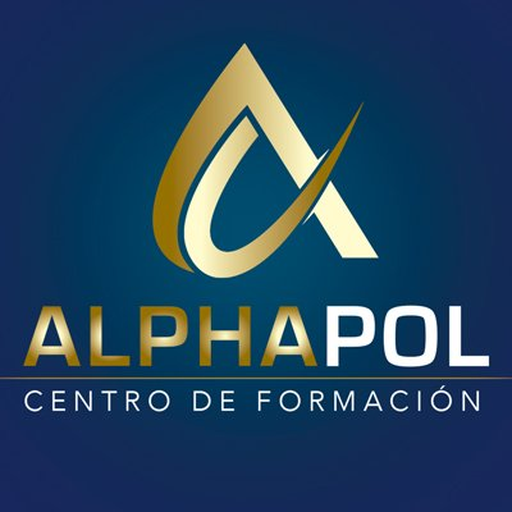
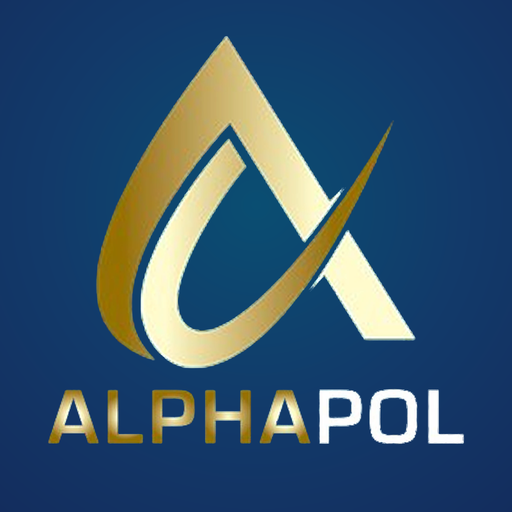
Icono nuevo: la «A» y «ALPHAPOL» lo más grandes que deja cada sistema
El icono era el logo entero, con «CENTRO DE FORMACIÓN» dentro, ilegible a
tamaño de icono. Ahora es la propuesta «E · Con nombre» del lienzo de diseño,
con la «A» y el nombre al máximo:

- iPhone, navegador y «any» del manifest: la «A» al 62,5 % del ancho y el
  nombre al 81 %, dentro de las esquinas redondeadas del iPhone.
- Android («maskable»): 48 % y 62 %, dentro del círculo central del 80 %, que
  es lo único que Android garantiza no recortar.

Las medidas salen de la silueta real de la «A» y las letras. Regla 88 en
CLAUDE.md.

Claude-Session: https://claude.ai/code/session_01JaYhgN2rgizfNvnHoJRRFy

Changed region(s): [[0.0, 0.0625, 1.0, 0.875]]

diff --git a/app/manifest.ts b/app/manifest.ts
@@ -5,9 +5,11 @@ import { MARCA } from './lib/marca';
  * El manifest de PWA. Sin esto, al «instalar» la web en el móvil Android usaba
  * el `favicon.ico` por defecto (borroso) y el nombre largo del `<title>`.
  *
- * Los iconos salen del logo de Alphapol (`public/marca/`, regla 81). El
- * «maskable» lleva el logo con margen sobre el marino: Android recorta el icono
- * en círculo y, sin margen, se comería «CENTRO DE FORMACIÓN».
+ * Los iconos son la «A» de Alphapol con «ALPHAPOL» debajo, lo más grandes que
+ * deja cada sistema (regla 88). El «maskable» los lleva más pequeños a
+ * propósito: Android puede recortar el icono en círculo y solo respeta el
+ * círculo central, el 80 % del icono; con el tamaño del de iPhone se comería
+ * la primera y la última letra del nombre.
  */
 export default function manifest(): MetadataRoute.Manifest {
   return {

diff --git a/CLAUDE.md b/CLAUDE.md
@@ -88,6 +88,7 @@ Next.js 16 (App Router) · React 19 · Supabase · Google Gemini · Tailwind 4.
 | — | **Pasada de tono: la app habla como Alphapol** | ✅ **en producción** (6 nov). Fuera el reloj «ZULU» (enseñaba la hora de Greenwich), «Sistema online», «Centro de Mando», «Operaciones», «Drills», «Sistema Táctico»; los módulos se llaman Inicio, Test, Repasar fallos, Fichas, Preparación física, Mi evolución, Mi perfil; el logo de Alphapol en el menú y en el panel; menos texto en «Mi evolución». Ver **regla 85** |
 | — | **La física como en TrainingMonkeys** | ✅ **en producción** (6 nov), con un plan de ejemplo de noviembre cargado. El modelo pasa a ser el de la herramienta que usaba Alphapol: SESIONES sueltas en el calendario (tipo, título, descripción libre, duración, distancia, vídeo), de un grupo o de un alumno; el alumno las apunta (hecha o no, esfuerzo, sensaciones, tiempo y distancia reales) y el preparador contesta. Planificador de semana / 2 semanas / mes con arrastrar y soltar, biblioteca de plantillas, copiar semana, nota de la semana; histórico de marcas con el baremo del BOE. `docs/sql/fisica-sesiones.sql` **ejecutado**. Verificado de punta a punta contra la BD real (datos de prueba borrados después). Sustituye a la regla 84. Ver **regla 86** |
 | — | **Pantalla de carga nueva** | ✅ **en producción** (6 nov). De siete propuestas en un lienzo de diseño, el dueño eligió la «G · Monumental»: la «A» del logo enorme saliéndose por la derecha y el logotipo abajo, en marino. Se guardaron la A (Emblema) y la E (Claro) en `docs/disenos/pantalla-de-carga/`. Vista en el banco de pruebas a 390, 360 y 1440 px. Ver **regla 87** |
+| — | **Icono de la app nuevo** | ✅ **en producción** (6 nov). De seis propuestas en el mismo lienzo, el dueño eligió la «E · Con nombre» con la «A» y el nombre lo más grandes posible: dos versiones, una para iPhone y navegador y otra (la «maskable») para Android, que tiene que caber en el círculo central. Ver **regla 88** |
 
 ## Producción
 
@@ -3298,7 +3299,8 @@ registrado, así que lo de prueba se borra.
 
 El logo es el JPG de 400 px de su web (`public/marca/`), y de él salen los
 iconos: `app/icon.png`, `app/apple-icon.png` y los del manifest, uno
-«maskable» con margen para que Android no se coma «CENTRO DE FORMACIÓN». Se
+«maskable» con margen para que Android no se coma «CENTRO DE FORMACIÓN» (rehechos
+el mismo día con la «A» y el nombre en grande: regla 88). Se
 retiraron `app/icon.tsx`, `app/apple-icon.tsx` y la égida (`app/lib/logo.tsx`).
 **Hace falta un logo en vector** para que el icono no se vea suave.
 
@@ -3666,6 +3668,42 @@ con los pasos para cambiar a cualquiera de ellas.
   marca, oscura pase lo que pase. Lo que sí guarda: `min-h-dvh` (la guarda de
   `auth-messages.test.ts` la sigue ahora a ella) y `prefers-reduced-motion`.
 - Para verla quieta: el banco de pruebas, `index.html?vista=carga`.
+
+
+### 88 · El icono: lo más grande que deja cada sistema, y por eso hay dos
+
+Hasta el 6 nov el icono era el logo entero, con «ALPHAPOL · CENTRO DE
+FORMACIÓN» dentro: a tamaño de icono no se leía nada y la «A» quedaba
+pequeña. Ahora es la «A» con «ALPHAPOL» debajo (propuesta «E · Con nombre» del
+lienzo, página «Icono de la app»), sobre el marino del logo, y el dueño pidió
+los dos lo más grandes que permita el icono. Lo que manda ahí no es el gusto,
+es lo que recorta cada sistema:
+
+| Fichero | Para qué | La «A» (ancho) | El nombre (ancho) | Lo que limita |
+|---|---|---|---|---|
+| `app/icon.png` (512), `app/apple-icon.png` (180), `public/marca/icono-192.png` y `icono-512.png` | iPhone, navegador, «any» del manifest | 62,5 % | 81 % | Las esquinas redondeadas del iPhone (radio ~22 %), con un margen fino del 6 % |
+| `public/marca/icono-maskable-512.png` | Android | 48 % | 62 % | Android puede recortar en **círculo** y solo garantiza el círculo central del **80 %** |
+
+- **No se usa el mismo dibujo en los dos.** Con el tamaño del de iPhone, el
+  recorte en círculo de Android se come la primera «A» y la última «L» del
+  nombre. Con el de Android en todas partes, el de iPhone saldría pequeño sin
+  motivo.
+- **Las medidas se calcularon, no se pusieron a ojo**: con la silueta real de
+  la «A» y de las letras, buscando el tamaño mayor que deja todos sus píxeles
+  dentro de la zona segura y centrando lo que sobra. Las posiciones, en
+  fracciones del lado (izquierda, arriba, ancho, alto): iPhone — «A»
+  `.1875 .0708 .6250 .6491`, nombre `.0938 .7588 .8125 .1094`; Android — «A»
+  `.2610 .1235 .4780 .4964`, nombre `.1893 .6497 .6214 .0836`. El fondo es el
+  degradado del logo (`#0a4e72` → `#123a6a` → `#14295a`, centrado al 50 % / 40 %).
+- La «A» y el nombre salen de `MARCA.isotipo` y `MARCA.logotipo` (regla 87),
+  recortados a su silueta. Con un logo en vector se regeneran con las mismas
+  medidas y se ganaría nitidez.
+- **En los móviles que ya tienen la app instalada el icono no cambia al
+  momento**: Android vuelve a leer el manifest cada cierto tiempo y el iPhone
+  guarda el icono de cuando se añadió a la pantalla de inicio (hay que quitarla
+  y volver a añadirla).
+- **No volver a añadir `app/favicon.ico`** (sigue en pie lo de la tabla de
+  estado): `app/icon.png` es el favicon.
 
 ---
 
